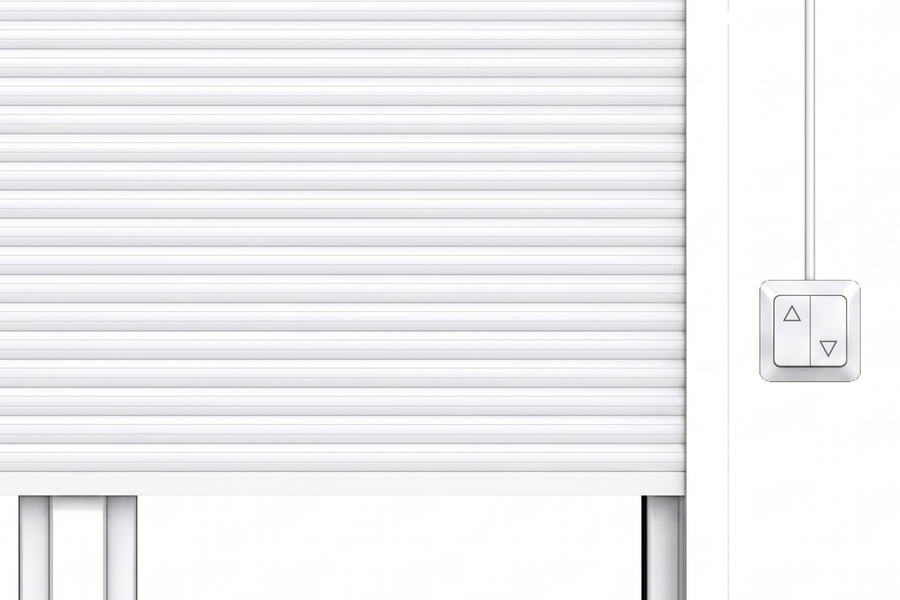
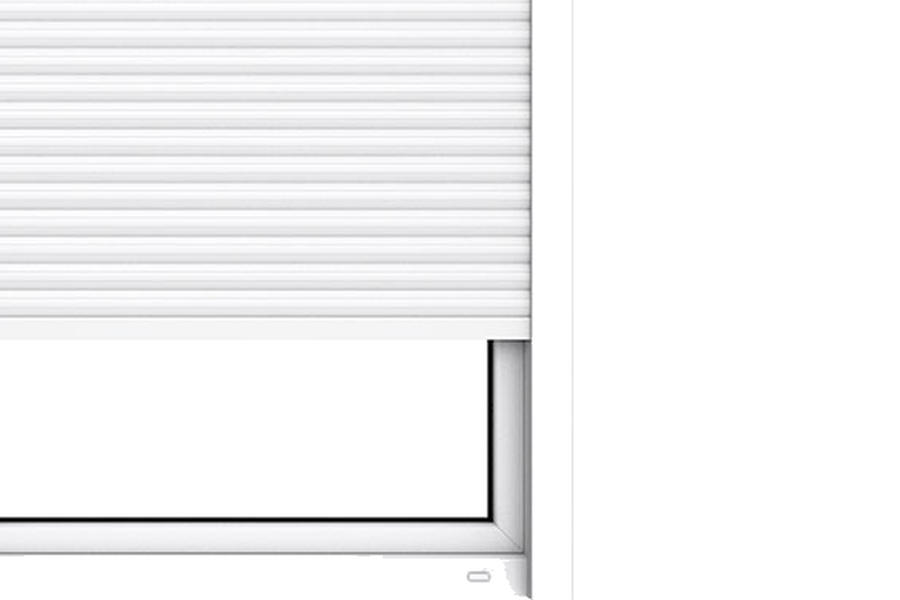
Rollladen-Kacheln: Gurtwickler in der Form aus der Skizze, Motor ohne Beiwerk
Rueckmeldung zum ersten Entwurf: die ovale Gehaeuseform beim Gurtwickler passte nicht,
und beim Motor gehoert neben den Rollladen nichts hin — aussen ist dort real auch nichts
zu sehen.

- Gurtwickler: neues Kachelbild, Form abgeleitet aus dem Gurtwickler-Symbol der
  Konfigurator-Skizze (img/skizze/gw_d.webp, Achteck mit rundem Gurteinlass), erzeugt
  mit Higgsfield nano_banana_2 (Bild-zu-Bild, Skizzensymbol + bisheriges Rollladen-Render
  als Referenz), plus senkrechtem Gurt vom Kasten herunter.
- Motor: Kachel zeigt nur den Rollladen, kein Kabel und kein Schalter. Reiner Zuschnitt
  aus dem vorhandenen Render, keine Generierung.
- Beide Kacheln nutzen exakt denselben Bildausschnitt, damit sie sich nur im
  Bedienelement unterscheiden.
- Gespiegelt wird nur noch beim Gurtwickler. Beim Motor gibt es nichts zu spiegeln
  ausser dem Fenster selbst — die beiden Motor-Kacheln zeigen bewusst dasselbe Bild,
  die Seite steht im Text.
- Unterzeilen konkretisiert: "Gurt links/rechts" bzw. "Kabel links/rechts" statt nur
  "von innen"; beim Motor bezeichnet die Seite den Kabelauslass. Hinweistext erklaert
  jetzt beide Faelle getrennt.
- Bild-URLs mit ?v=2 versehen (Projektkonvention), damit der neue Stand nicht aus dem
  Browser-Cache verdeckt wird.

Geprueft: 1440 und 390 px, keine Konsolenfehler, Kachelbilder in echter Anzeigegroesse
gegengeprueft.

Changed region(s): [[0.0, 0.0, 0.7778, 1.0], [0.84, 0.0, 0.9644, 0.66]]

diff --git a/konfigurator.html b/konfigurator.html
@@ -3483,15 +3483,20 @@ function panelHTML(){
     };
     // Ein Bild je Antrieb, fuer die Gegenseite gespiegelt (class="mir") — dadurch ist das
     // Fenster in allen vier Kacheln identisch und nur das Bedienelement wechselt.
-    const rimg=(art,li)=>`<img src="img/rolladen-${art}-r.webp" ${li?'class="mir" ':''}alt="${art==='gurt'?'Rollladen mit Gurtwickler':'Rollladen mit Motor und Wandschalter'} ${li?'links':'rechts'}" loading="lazy" decoding="async">`;
+    // Beim Motor ist bewusst NICHTS neben dem Rollladen: aussen ist da real auch nichts zu
+    // sehen. Die beiden Motor-Kacheln zeigen deshalb dasselbe Bild, die Seite steht im Text.
+    // Gespiegelt wird nur beim Gurtwickler — dort wandert der Wickler sichtbar auf die andere
+    // Seite. Beim Motor gaebe es nichts zu spiegeln ausser dem Fenster selbst; das saehe nach
+    // Versehen aus. Die beiden Motor-Kacheln zeigen daher bewusst dasselbe Bild.
+    const rimg=(art,li)=>`<img src="img/rolladen-${art}-r.webp?v=2" ${(li&&art==='gurt')?'class="mir" ':''}alt="${art==='gurt'?'Rollladen mit Gurtwickler '+(li?'links':'rechts'):'Rollladen mit Motorantrieb'}" loading="lazy" decoding="async">`;
     return `<div class="card"><div class="grp-title">Rollladen</div><div class="opts roll5">`
       +rc('kein',null,ban,'Kein Rollladen','ohne')
-      +rc('gurt','links',rimg('gurt',1),'Gurtwickler links','von innen')
-      +rc('gurt','rechts',rimg('gurt',0),'Gurtwickler rechts','von innen')
-      +rc('motor','links',rimg('motor',1),'Motor links','von innen')
-      +rc('motor','rechts',rimg('motor',0),'Motor rechts','von innen')
+      +rc('gurt','links',rimg('gurt',1),'Gurtwickler links','Gurt links')
+      +rc('gurt','rechts',rimg('gurt',0),'Gurtwickler rechts','Gurt rechts')
+      +rc('motor','links',rimg('motor',1),'Motor links','Kabel links')
+      +rc('motor','rechts',rimg('motor',0),'Motor rechts','Kabel rechts')
       +`</div>
-      <div class="mhint"><svg viewBox="0 0 24 24" fill="none" stroke="currentColor" stroke-width="2"><circle cx="12" cy="12" r="10"/><path d="M12 16v-4M12 8h.01"/></svg><span>Gurtwickler heißt: Sie ziehen den Rollladen von Hand am Gurt hoch. Motor heißt: elektrisch per Wandschalter. Links und rechts sind von innen gesehen — so, wie Sie im Raum vor dem Fenster stehen.</span></div>
+      <div class="mhint"><svg viewBox="0 0 24 24" fill="none" stroke="currentColor" stroke-width="2"><circle cx="12" cy="12" r="10"/><path d="M12 16v-4M12 8h.01"/></svg><span>Gurtwickler: Sie ziehen den Rollladen von Hand am Gurt hoch — links oder rechts ist die Seite, an der der Gurt sitzt. Motor: elektrisch per Schalter — hier ist es die Seite, an der das Kabel herauskommt. Beides von innen gesehen, so wie Sie im Raum vor dem Fenster stehen.</span></div>
       <p class="ai-note">Die Rollladen-Abbildungen sind KI-generierte Symbolbilder.</p></div>${pzpick}`;
   }
   if(k==='sprossen'){
